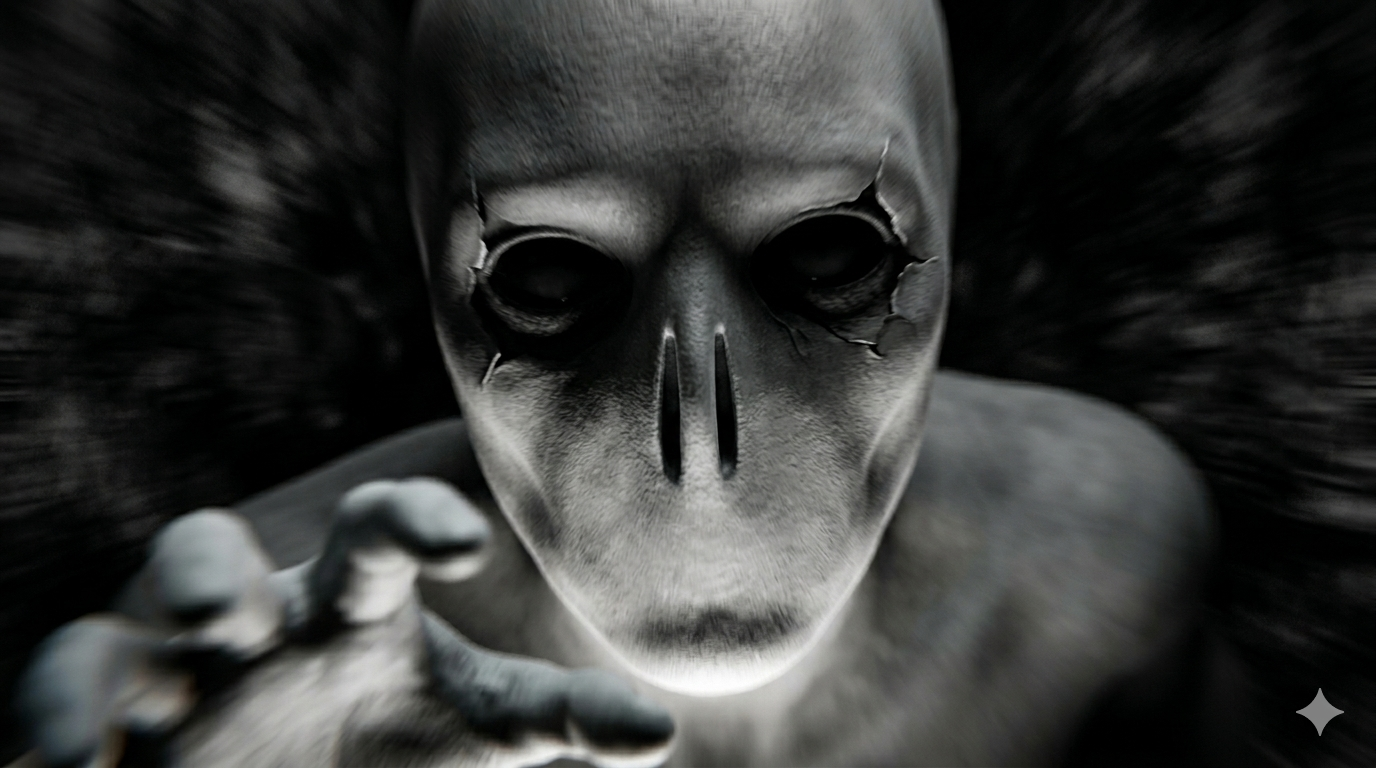
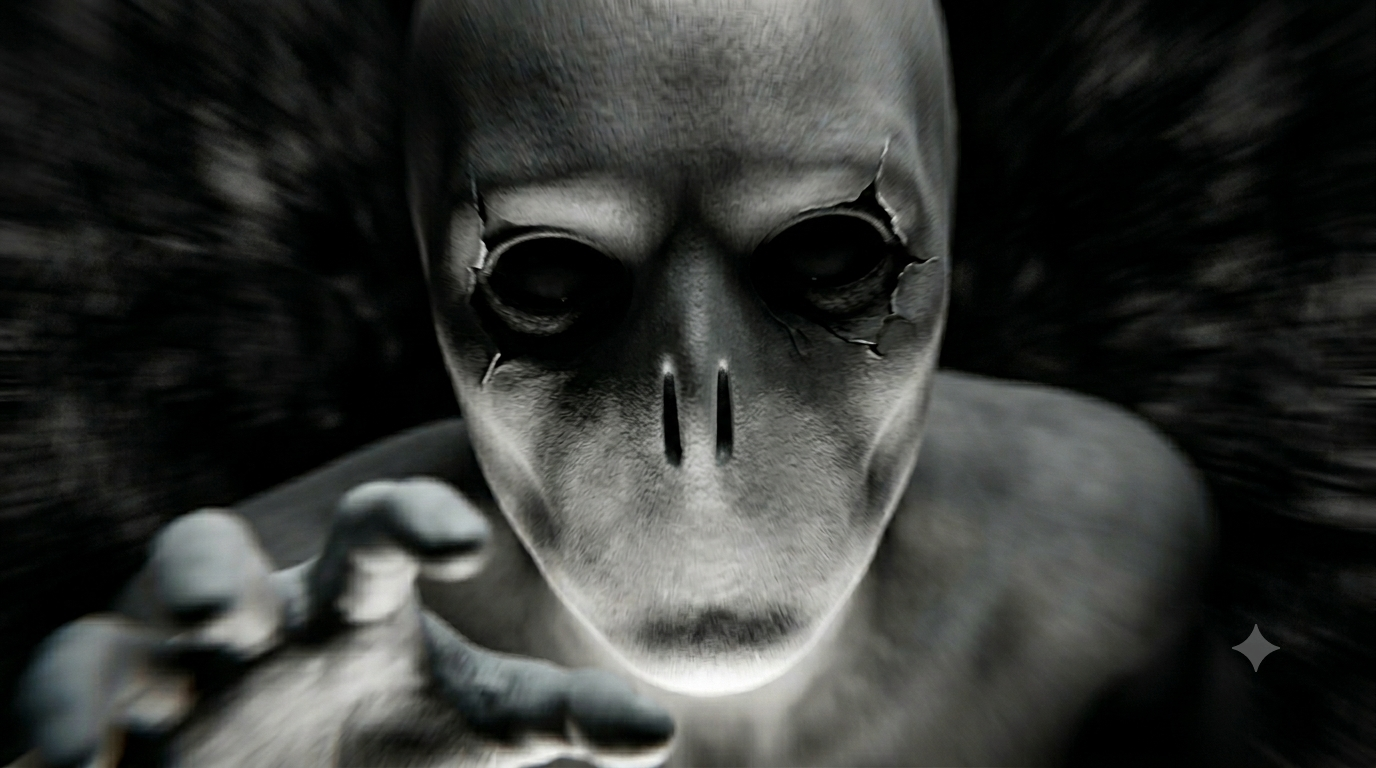
style(web): green deactivate buttons + un-jam action buttons (fix in winning menus.css)

Changed region(s): [[0.4688, 0.4062, 0.5625, 0.625], [0.9375, 0.9062, 0.9688, 0.9688], [0.9062, 0.8125, 0.9375, 0.875]]

diff --git a/apps/web/src/menus/menus.css b/apps/web/src/menus/menus.css
@@ -795,6 +795,19 @@ body {
   color: var(--ink);
   border-color: #7a6740;
 }
+/* Deactivation buttons (business Shutdown, ceremony End, invocation Dispel) read green — a clear
+   "turn this active thing off" affordance, distinct from the blood-red BEGIN/Summon. Defined here in
+   menus.css (not index.css) because this stylesheet loads last and wins the per-property cascade for
+   .opera-btn; a copy in index.css would be overridden by the red .opera-btn base above. */
+.opera-btn--stop {
+  background: #1d5236;
+  border-color: #3f9e63;
+  color: var(--parchment);
+}
+.opera-btn--stop:hover:not(:disabled) {
+  background: #246b44;
+  border-color: #56bd7e;
+}
 .pogrom-target {
   font-family: var(--font-display);
   letter-spacing: 0.04em;
@@ -885,7 +898,7 @@ body {
   align-items: center;
   justify-content: space-between;
   gap: 0.8rem;
-  padding: 0.55rem 0;
+  padding: 0.55rem 1rem;
   border-top: 1px solid var(--parchment-shadow);
 }
 .vitium-row.is-locked {

diff --git a/apps/web/src/styles/index.css b/apps/web/src/styles/index.css
@@ -1310,7 +1310,7 @@ body {
   grid-template-columns: 1fr auto;
   align-items: center;
   gap: 0.6rem;
-  padding: 0.55rem 1rem;
+  padding: 0.5rem 0.6rem;
   border: 1px solid rgba(196, 158, 74, 0.22);
   background: rgba(8, 8, 10, 0.55);
 }
@@ -1322,7 +1322,6 @@ body {
   display: flex;
   flex-direction: column;
   gap: 0.15rem;
-  min-width: 0;
 }
 .vitium-name {
   font-family: var(--font-display);
@@ -1350,17 +1349,6 @@ body {
   background: rgba(40, 16, 16, 0.5);
   border-color: rgba(212, 72, 72, 0.5);
   color: #e6c993;
-}
-/* Deactivation buttons (business Shutdown, ceremony End, invocation Dispel) read green —
-   a clear "turn this active thing off" affordance, distinct from the blood-red BEGIN/Summon. */
-.opera-btn--stop {
-  background: #1d5236;
-  border-color: #3f9e63;
-  color: var(--parchment);
-}
-.opera-btn--stop:hover:not(:disabled) {
-  background: #246b44;
-  border-color: #56bd7e;
 }
 .vitium-heading {
   margin: 0.9rem 0 0.3rem;

diff --git a/apps/web/src/menus/PcWindow.tsx b/apps/web/src/menus/PcWindow.tsx
@@ -10,7 +10,7 @@ interface PcWindowProps {
 
 const EXECUTABLES = [
   { id: 'Depraedatio', color: '#E95420', glyph: '$' },
-  { id: 'Decimatio', color: '#772953', glyph: '†' },
+  { id: 'Decimatio', color: '#772953', glyph: 'X' },
   { id: 'Indagatio', color: '#2c7bbe', glyph: '?' },
   { id: 'Emptio', color: '#2f9e52', glyph: '+' },
   { id: 'Analytics', color: '#1f9e8f', glyph: '\u03A3' },

diff --git a/README.md b/README.md
@@ -259,11 +259,13 @@ extensions, `import type`, Prettier):
     extra space shows as more file-grid columns and roomier panels, not a zoomed-in UI). The `vw`/`vh`
     caps are unchanged, so the window still shrinks to fit a small viewport. PC action rows
     (`.vitium-row`, `.pc-app-row`) gained horizontal breathing room so their buttons no longer jam
-    against the bar's right edge (with `min-width: 0` on the row meta so a long _Expected outcomes_
-    line wraps instead of shoving the button out), and the three deactivation buttons — business
-    **Shutdown**, ceremony **End**, invocation **Dispel** — now use a dedicated green
-    `.opera-btn--stop` variant (a "turn this off" affordance, distinct from the blood-red
-    BEGIN/Summon); cancel and sign-out buttons stay on the neutral `--secondary` style.
+    against the bar's right edge, and the three deactivation buttons — business **Shutdown**, ceremony
+    **End**, invocation **Dispel** — use a dedicated green `.opera-btn--stop` variant (a "turn this
+    off" affordance, distinct from the blood-red BEGIN/Summon); cancel and sign-out buttons stay on the
+    neutral `--secondary` style. **Gotcha:** both `index.css` and `menus.css` define `.opera-btn` and
+    `.vitium-row`, and `menus.css` is imported last, so it wins the cascade _per property_ — the PC
+    overrides for these (padding, the `--stop` colours) must live in `menus.css`; the same edits in
+    `index.css` are silently overridden.
   - _W8 — render-loop fix._ The Maleficia shelf selected `buildCabinet(state)` _inside_ a Zustand
     selector, returning a fresh array each call — which makes `useSyncExternalStore` see an
     ever-changing snapshot and loop (“Maximum update depth exceeded”) when the cabinet mounts. Now it